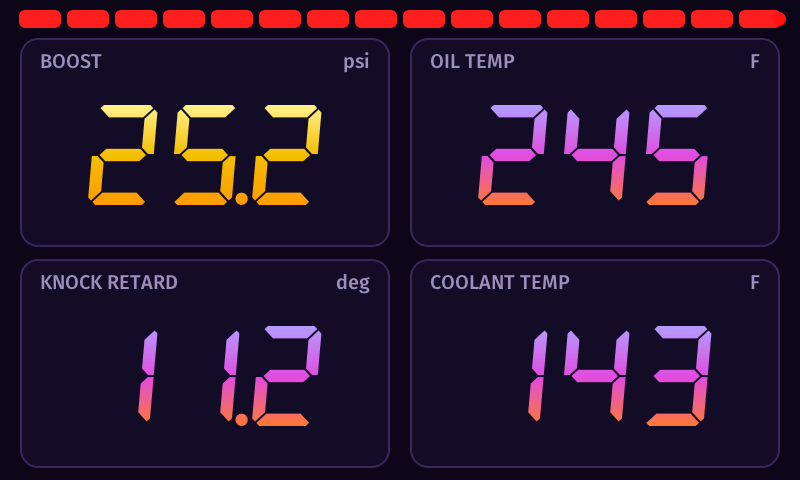
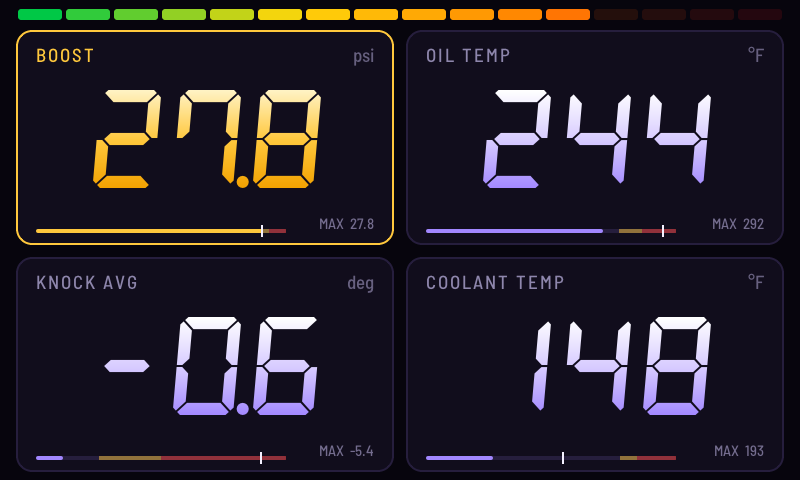
README: one big gauge or six, gear indicator, start-up sweep, your look (themes, fonts, layouts), brightness, max values, warning limits from your car's own calibration with tuned values from the phone, shift lights to 6,000 rpm; new screen picture

diff --git a/README.md b/README.md
@@ -18,8 +18,14 @@ It has **not yet had a long drive or been tested on other cars**, so everything 
 
 ![The dash: four gauges and the shift lights](img/gauges.png)
 
-* **Four big gauges** (by default boost, oil temperature, knock and coolant temperature) in seven-segment or italic numbers, in six colour themes. You choose what each gauge shows from your phone.
-* **Shift lights:** a bar of 16 lights across the top that fills as the engine speed rises and turns fully red at 7,000 rpm.
+* **Four or six big gauges, or one big and three small** (by default boost, oil temperature, knock and coolant temperature, then intake air temperature and battery voltage). You choose what each gauge shows from your phone.
+* **Gear indicator** (optional): the gear between the gauges, N when no forward gear is engaged.
+* **Start-up sweep:** at power-on the shift lights and scales sweep once, like an instrument cluster.
+* **Your look:** eight colour themes, six number fonts (digital, italic, condensed, wide, technical, clean), gauges on cards or a minimal layout with thin lines between them, numbers in a gradient or a solid colour, a thin scale under each number (warning zones marked, the max value as a tick), and shift lights in green-to-red or the theme's colours.
+* **Shift lights:** a bar of 16 lights across the top that fills from green to red over the whole rev range, from 1,500 rpm (idle shows nothing) to 6,000 rpm, where the tachometer's red zone starts and the whole bar flashes red.
+* **Warning colours:** a gauge turns yellow, then red. Stock limits come from your own car's factory calibration where the dash knows it (turbo speed, boost and manifold pressure, fuel pump, compressor temperature: yellow where the engine computer starts protecting itself, red at its hard limit), and from limits for the EA888 Gen 3 otherwise (for example coolant 110 / 116 °C, oil 125 / 135 °C). If your car is tuned, set your tune's values on the phone page; one tap goes back to stock. A gauge in the red also flashes its frame, so it catches your eye when you are not looking at it.
+* **Max values:** each gauge shows the highest value since the dash started (the lowest for knock). Clear them from the phone page.
+* **Brightness:** a day and a night level, set from the phone page; the night level follows the dash's clock. The screen also says why the gauges are empty: NO DONGLE, CAR OFF or APP CONNECTED.
 * **Set up from your phone:** pair the dongle, choose the gauges, theme, units, the engine list, the clock, update the firmware. The dash is a live view; it does not record (the dongle is where logging happens).
 * **ECU detection:** the dash reads which engine computer the car has (through the dongle) and picks the matching list of values by itself. You can still choose by hand.
 * **Pure gauge view while driving:** above 10 mph the phone page refuses changes, so nobody fiddles with it on the move.
